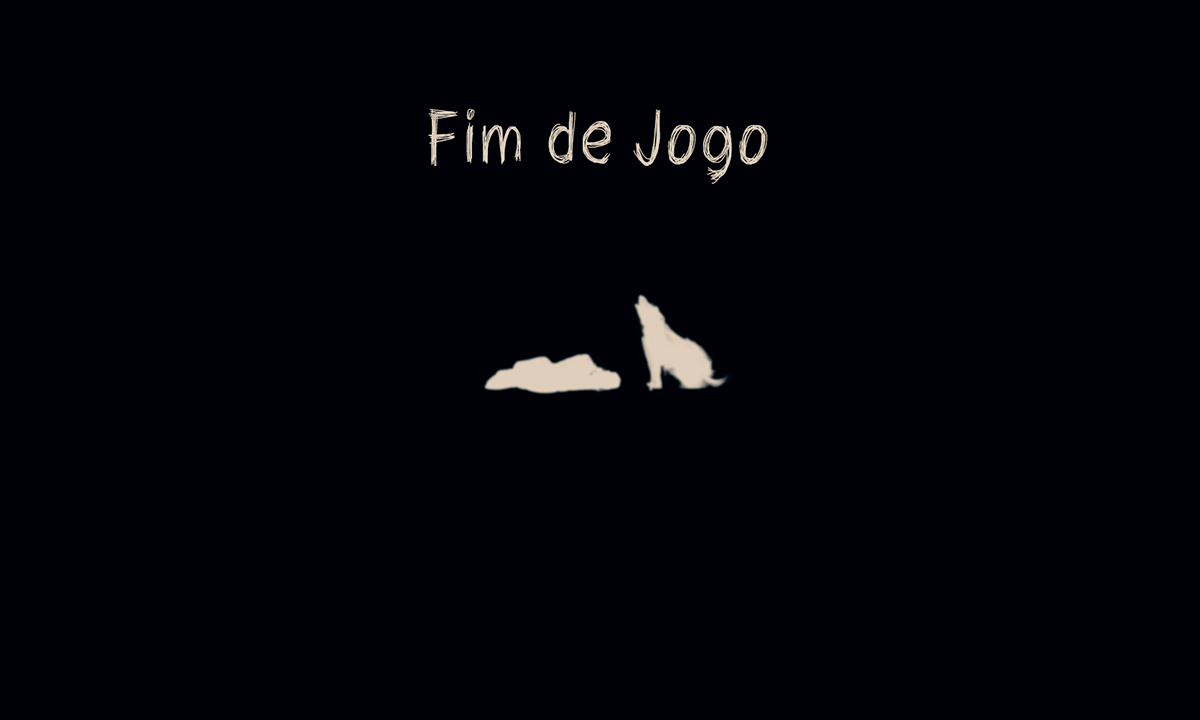
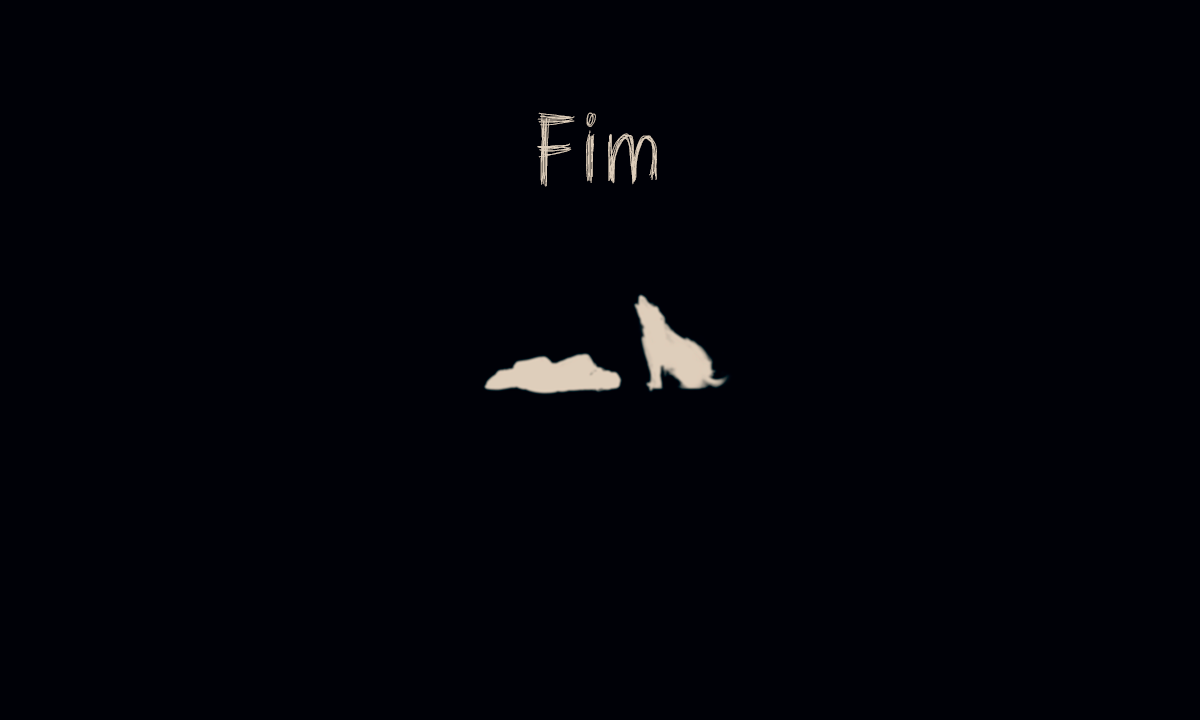
Botões na tela de final

Changed region(s): [[0.3392, 0.1528, 0.6475, 0.2444]]

diff --git a/src/EndState.cpp b/src/EndState.cpp
@@ -44,14 +44,15 @@ void EndState::LoadAssets()
         A->AddComponent(new Parallax(*A, 0.6f));
         AddObject(A);
 
+        // Creditos -------------------------------------
         GameObject *textGO1 = new GameObject();
-        Text *title = new Text(*textGO1, "recursos/font/Titulo.ttf", 48, BLENDED, "Credits:\n\nBryan G. Silva - designer\nKivia Fernanda - designer\nGustavo Rinaldi - programador\nLucas Almeida - programador\nEnzo Nogueira - musico\nTom Duarte - musico", white);
+        Text *title = new Text(*textGO1, "recursos/font/fonteBase.ttf", 48, BLENDED, "Credits:\n\nBryan G. Silva - designer\nKivia Fernanda - designer\nGustavo Rinaldi - programador\nLucas Almeida - programador\nEnzo Nogueira - musico\nTom Duarte - musico", white);
         textGO1->AddComponent(title);
 
         title->SetCameraFollower(true);
         // Posição do texto
         textGO1->box.x = 330;
-        textGO1->box.y = 150;
+        textGO1->box.y = 100;
 
         AddObject(textGO1);
 
@@ -75,17 +76,23 @@ void EndState::LoadAssets()
 
     backgroundMusic.Play(); // musica de vitória ou derrota
 
-    // Texto indicando para voltar ao início
-    GameObject *textGO = new GameObject();
-    pressSpace = new Text(*textGO, "recursos/font/Titulo.ttf.ttf", 24, BLENDED, "PRESS SPACE TO START AGAIN", white);
-    textGO->AddComponent(pressSpace);
+    // Botão: Novo Jogo
+    menuGO = new GameObject();
+    Text *newGameText = new Text(*menuGO, "recursos/font/fonteBase.ttf", 38, BLENDED, "Novo Jogo", white);
+    menuGO->AddComponent(newGameText);
+    newGameText->SetCameraFollower(true);
+    menuGO->box.x = 500;
+    menuGO->box.y = 500;
+    AddObject(menuGO);
 
-    pressSpace->SetCameraFollower(true);
-    // Posição do texto
-    textGO->box.x = 430;
-    textGO->box.y = 600;
-
-    AddObject(textGO);
+    // Botão: Sair
+    exitGO = new GameObject();
+    Text *exitText = new Text(*exitGO, "recursos/font/fonteBase.ttf", 38, BLENDED, "Sair", white);
+    exitGO->AddComponent(exitText);
+    exitText->SetCameraFollower(true);
+    exitGO->box.x = 550;
+    exitGO->box.y = 570;
+    AddObject(exitGO);
 }
 
 void EndState::Update(float dt)
@@ -98,36 +105,30 @@ void EndState::Update(float dt)
     }
     Camera::GetInstance().Move(100 * dt, 0);
 
-    // FAzer o texto piscar ---------------------------------------
-
-    if (!pressSpace)
-        return;
-
-    static float timerBlink = 0.0f;
-    static bool visible = true;
-    timerBlink += Game::GetInstance().GetDeltaTime();
-    if (timerBlink >= 0.5f)
-    {
-        // alterna os valores e zera o contador de blink
-        visible = !visible;
-        timerBlink = 0.0f;
-        pressSpace->SetText(visible ? "PRESS SPACE TO START AGAIN" : ""); // Tira texto para piscar
-    }
-
     InputManager &input = InputManager::GetInstance();
 
-    // Se apertar ESC, sai do jogo
-    if (input.QuitRequested() || input.KeyPress(SDLK_ESCAPE))
+    // Ao clicar X na janela
+    if (input.QuitRequested())
     {
         quitRequested = true;
         return;
     }
 
-    // Se apertar ESPAÇO, volta ao TitleState
-    if (input.KeyPress(SDLK_SPACE))
+    if (input.MousePress(SDL_BUTTON_LEFT))
     {
-        popRequested = true;
-        return;
+        int mouseX = input.GetMouseX();
+        int mouseY = input.GetMouseY();
+
+        if (menuGO->box.Contains(mouseX, mouseY))
+        {
+            popRequested = true;
+            return;
+        }
+        if (exitGO->box.Contains(mouseX, mouseY))
+        {
+            quitRequested = true;
+            return;
+        }
     }
 }
 

diff --git a/src/main.cpp b/src/main.cpp
@@ -1,5 +1,6 @@
 #include "Game.h"
 #include "TitleState.h"
+#include "EndState.h"
 
 #define INCLUDE_SDL
 #include "SDL_include.h"
@@ -8,7 +9,7 @@ int main(int argc, char **argv)
 {
     // Cria o estado inicial
     Game &game = Game::GetInstance();
-    game.Push(new TitleState()); // adiciona estado de titulo, primeiro da pilha
+    game.Push(new EndState()); // adiciona estado de titulo, primeiro da pilha
     game.Run();
 
     return 0;

diff --git a/src/TitleState.cpp b/src/TitleState.cpp
@@ -85,8 +85,8 @@ void TitleState::Update(float dt)
 
     if (input.MousePress(SDL_BUTTON_LEFT))
     {
-        int mouseX = input.GetMouseX() + Camera::GetInstance().GetPosition().x;
-        int mouseY = input.GetMouseY() + Camera::GetInstance().GetPosition().y;
+        int mouseX = input.GetMouseX();
+        int mouseY = input.GetMouseY();
 
         if (newGameGO->box.Contains(mouseX, mouseY)) // Clica em novo jogo
         {

diff --git a/src/GameData.cpp b/src/GameData.cpp
@@ -1,5 +1,5 @@
 #include "GameData.h"
 
-bool GameData::playerVictory = false; //Jogador ainda não ganhou
+bool GameData::playerVictory = true; //Jogador ainda não ganhou
 int GameData::playerHP = 100;
 int GameData::state = 1;

diff --git a/include/EndState.h b/include/EndState.h
@@ -26,7 +26,9 @@ public:
 
 private:
     Music backgroundMusic;
-    Text *pressSpace = nullptr;
+
+    GameObject *menuGO;
+    GameObject *exitGO;
 
     Timer exitTime;
 };
